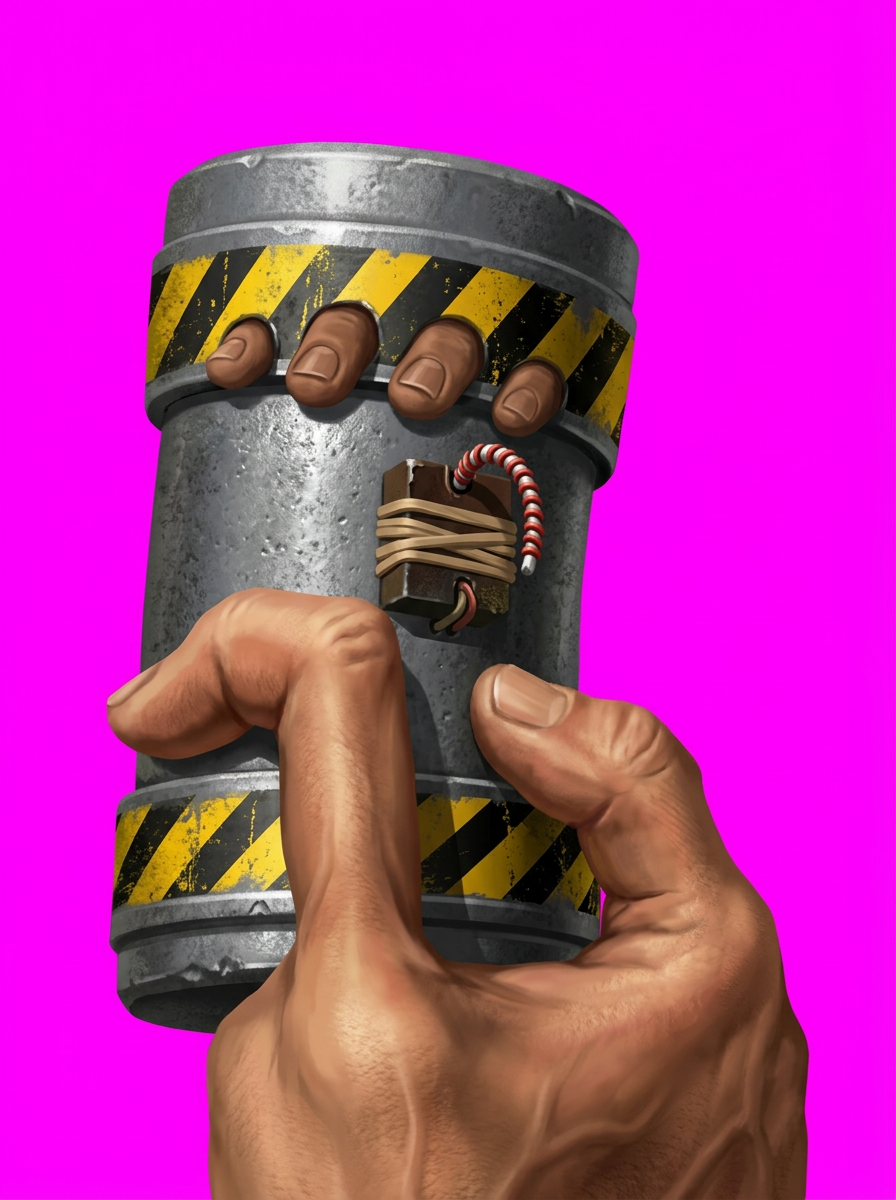
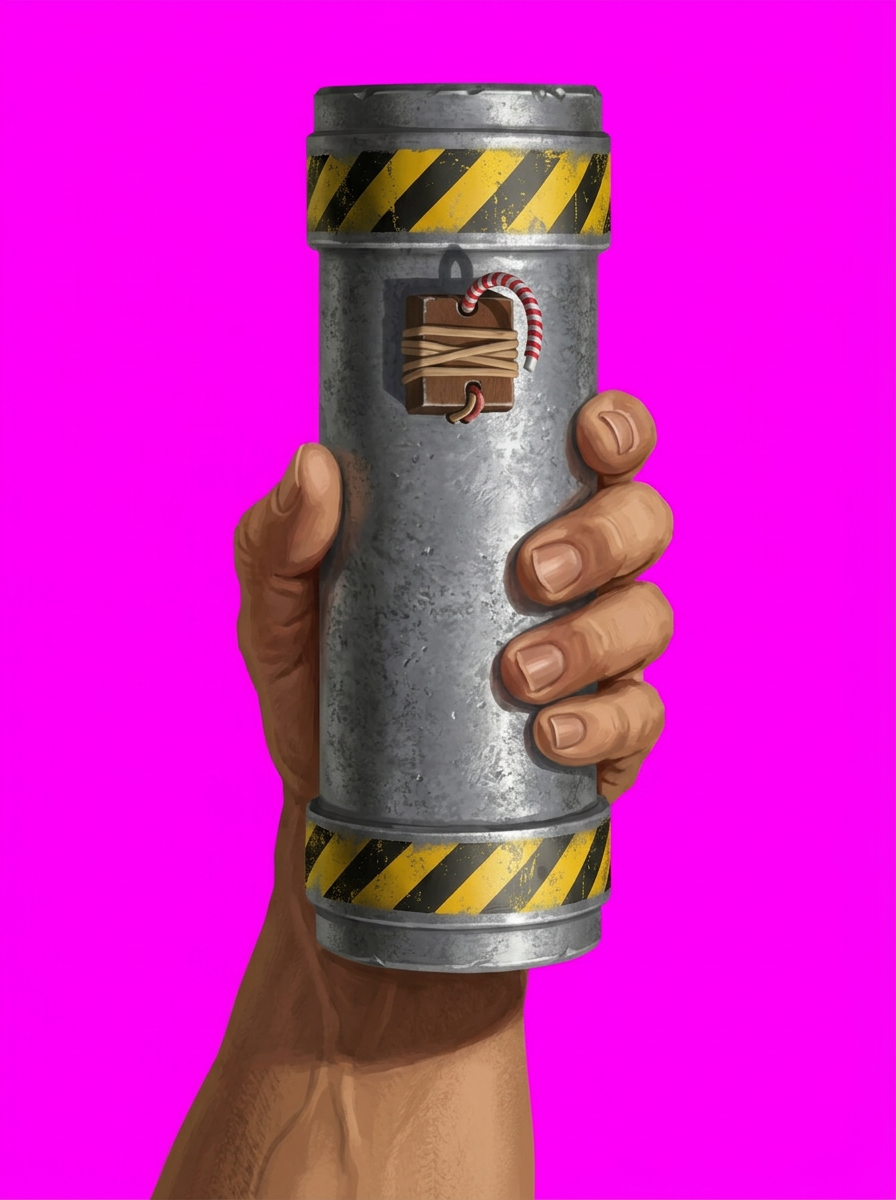
Pipe bomb: the held bomb repainted (a proper hand, matched to the throwing frame); the detonator mirrored into the left hand

diff --git a/tools/mkweapons.py b/tools/mkweapons.py
@@ -67,8 +67,8 @@ TILES = {
     2570: (HAND + ' clenched around a small black detonator with a red push button on top, arm reaching in from the bottom left', 'detonator', None, False),
     2571: (HAND + ' clenched around a small black detonator, thumb pressing its red button, arm from the bottom left', 'detonator', 2570, False),
     2572: (HAND + ' clenched around a small black detonator, thumb lifting off its red button, arm from the bottom left', 'detonator', 2570, False),
-    2573: (HAND + ' from below holding up a squat steel pipe bomb: a grey metal canister with yellow and black hazard stripes on its end caps and a small rubber-banded fuse box on the side', 'pipe bomb', None, False),
-    2574: (HAND + ' throwing a steel pipe bomb, seen close up on its side: a grey metal canister with yellow and black hazard stripes on its end caps and a small label', 'pipe bomb', 2573, False),
+    2573: (HAND + ' from below holding up a squat steel pipe bomb: a grey metal canister with yellow and black hazard stripes on its end caps and a small rubber-banded fuse box on the side; ONE right hand only, bare forearm, no sleeve: palm toward the viewer, four fingers curled round the front of the canister from the right, the thumb on its left side, anatomically correct', 'pipe bomb', None, False),
+    2574: (HAND + ' throwing a steel pipe bomb, seen close up on its side: a grey metal canister with yellow and black hazard stripes on its end caps and a small label; a natural hand, four fingers and a thumb gripping it, anatomically correct', 'pipe bomb', 2573, False),
     2575: (HAND + ' clenched in a fist just after throwing, knuckles toward the viewer', 'hand', 2573, False),
     2613: (HAND + ' gripping an all-black pump-action shotgun at its pistol grip, the barrel and pump pointing forward and up', 'shotgun', None, False),
     2616: (HAND + 's racking an all-black pump-action shotgun: one hand pulling the pump back, the gun angled up', 'shotgun', 2613, False),
@@ -114,7 +114,7 @@ FREE = {2510: ('gauntlet.png', None, None), 2511: ('gauntlet_fire.png', 2510, (3
 FREE_H, FREE_TILT = 110, 15  # idle tile height; degrees the fist leans in towards the crosshair
 FREEFLASH = {2511}
 BLUE_RAMP = np.array([[0, 0, 252], [60, 90, 230], [110, 140, 200], [150, 185, 225], [215, 235, 255]], float)  # the palette has no bright, saturated blue but its fullbright pure blue: that for the edges, steel blues inside
-FLIP = {2608}  # painted facing the other way from the rocket's other views: mirrored to match  # the HUD shows freezer ammo as FREEZEAMMO+1 (empty in the shareware): the same canister  # one ART file each (consecutive tiles)
+FLIP = {2608, 2570, 2571, 2572}  # 2570-2572: the detonator was painted as a right hand; it's held in the left. 2608: painted facing the other way from the rocket's other views: mirrored to match  # the HUD shows freezer ammo as FREEZEAMMO+1 (empty in the shareware): the same canister  # one ART file each (consecutive tiles)
 ASPECTS = [(21, 9), (16, 9), (3, 2), (4, 3), (1, 1), (3, 4), (2, 3), (9, 16)]
 LONG = 1024  # guide canvas, long side
 
